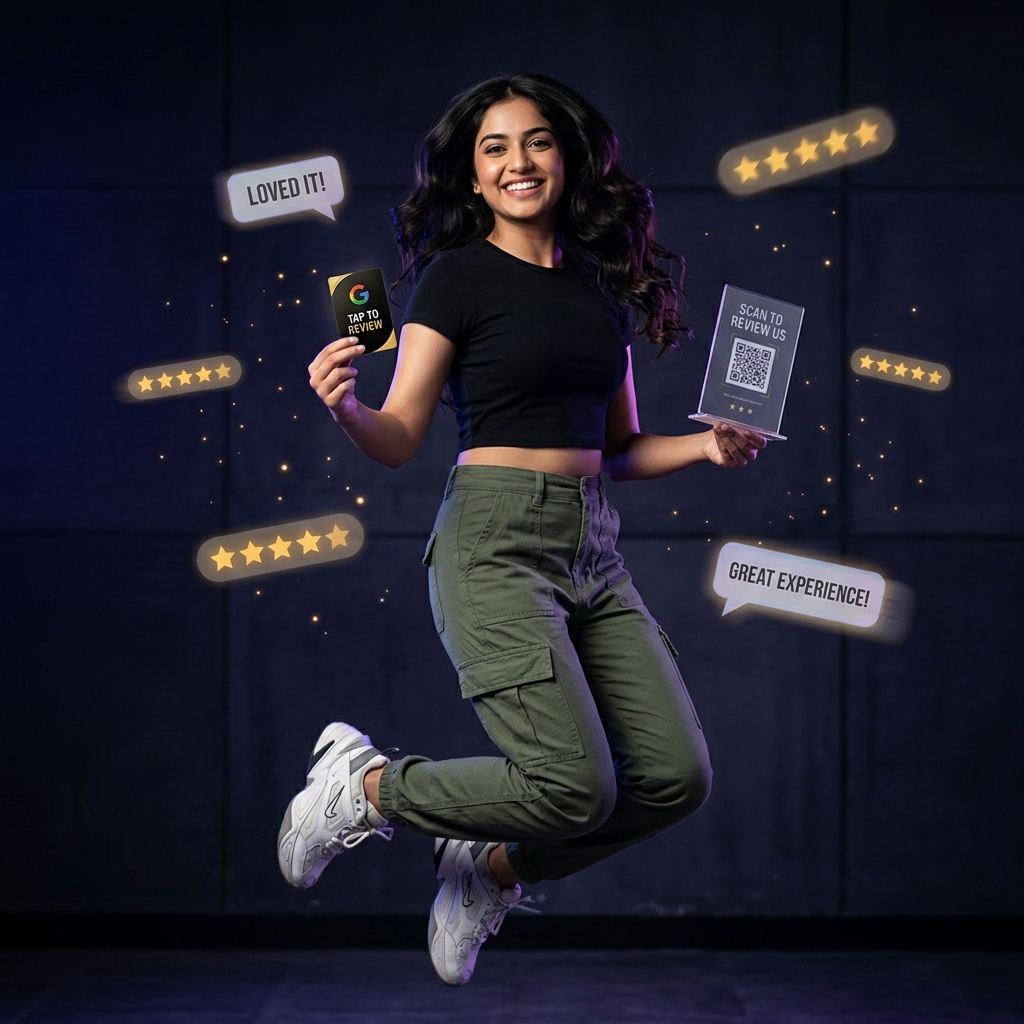
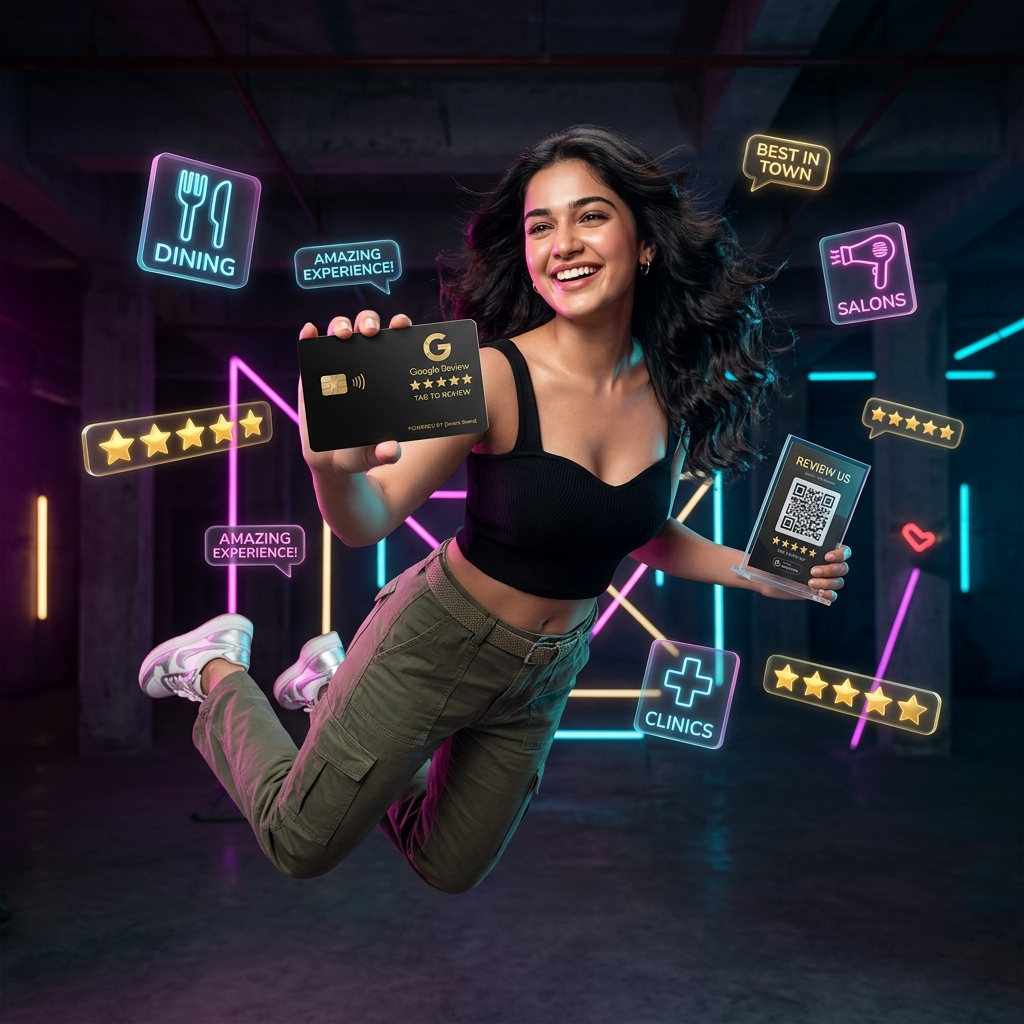
feat: fit responsive heading and enhance hero presenter with business category tags

diff --git a/src/app/page.tsx b/src/app/page.tsx
@@ -505,39 +505,97 @@ export default function HomePage() {
       <section className="pt-12 sm:pt-16 pb-20 px-4 sm:px-6 relative overflow-hidden">
         <div className="max-w-7xl mx-auto">
           {/* Top Floating Badge Bar */}
-          <div className="flex flex-wrap items-center justify-center lg:justify-start gap-2 mb-8 animate-fadeIn">
-            <div className="inline-flex items-center gap-1.5 px-3.5 py-1 rounded-full bg-indigo-500/15 border border-indigo-500/30 text-indigo-300 text-xs font-bold backdrop-blur-md shadow-inner">
+          <div className="flex flex-wrap items-center justify-center lg:justify-start gap-2 mb-6 sm:mb-8 animate-fadeIn">
+            <div className="inline-flex items-center gap-1.5 px-3 py-1 rounded-full bg-indigo-500/15 border border-indigo-500/30 text-indigo-300 text-xs font-bold backdrop-blur-md shadow-inner">
               <span className="w-2 h-2 rounded-full bg-emerald-400 animate-pulse" />
-              <span>PAN-INDIA DIRECT META LAUNCH</span>
+              <span>PAN-INDIA LAUNCH</span>
             </div>
-            <div className="inline-flex items-center gap-1.5 px-3.5 py-1 rounded-full bg-emerald-500/15 border border-emerald-500/30 text-emerald-300 text-xs font-bold backdrop-blur-md">
+            <div className="inline-flex items-center gap-1.5 px-3 py-1 rounded-full bg-emerald-500/15 border border-emerald-500/30 text-emerald-300 text-xs font-bold backdrop-blur-md">
               <Globe className="w-3 h-3 text-emerald-400" />
-              <span>6 Indian Languages: Hindi, Telugu, Tamil, Kannada, Malayalam, English</span>
+              <span>6 Indian Languages &bull; Hindi, Telugu, Tamil +3</span>
             </div>
-            <div className="inline-flex items-center gap-1.5 px-3.5 py-1 rounded-full bg-amber-500/15 border border-amber-500/30 text-amber-300 text-xs font-bold backdrop-blur-md">
+            <div className="inline-flex items-center gap-1.5 px-3 py-1 rounded-full bg-amber-500/15 border border-amber-500/30 text-amber-300 text-xs font-bold backdrop-blur-md">
               <Zap className="w-3 h-3 text-amber-400" />
-              <span>₹2,999 Lifetime Pass &bull; 0 Subscriptions</span>
+              <span>₹2,999 Lifetime Pass</span>
             </div>
           </div>
 
           {/* Hero Grid: Value Prop (Left) + Floating Hero Presenter (Right) */}
-          <div className="grid grid-cols-1 lg:grid-cols-12 gap-10 lg:gap-8 items-center">
-            {/* Left Column: Headline, Description & CTAs */}
-            <div className="lg:col-span-7 text-center lg:text-left space-y-6">
-              <h1 className="text-4xl sm:text-5xl md:text-6xl font-black tracking-tight text-white leading-[1.08]">
-                Collect 100+ Genuine 5-Star
-                <br />
-                <span className="bg-gradient-to-r from-blue-400 via-indigo-300 to-purple-400 bg-clip-text text-transparent drop-shadow-sm">
+          <div className="grid grid-cols-1 lg:grid-cols-12 gap-8 lg:gap-8 items-center">
+            {/* Left Column on Desktop / Main Flow on Mobile */}
+            <div className="lg:col-span-7 text-center lg:text-left space-y-5">
+              {/* Responsive Fitted Heading: Never splits 5-Star across lines */}
+              <h1 className="text-3xl sm:text-4xl md:text-5xl xl:text-6xl font-black tracking-tight text-white leading-[1.12] sm:leading-[1.1] hyphens-none">
+                <span className="block">
+                  Collect 100+ Genuine{" "}
+                  <span className="inline-block whitespace-nowrap text-amber-300">5-Star</span>
+                </span>
+                <span className="bg-gradient-to-r from-blue-400 via-indigo-300 to-purple-400 bg-clip-text text-transparent drop-shadow-sm block mt-1 sm:mt-1.5">
                   Google Reviews Every Month
                 </span>
               </h1>
 
-              <p className="text-base sm:text-lg md:text-xl text-slate-300 max-w-2xl mx-auto lg:mx-0 font-normal leading-relaxed">
+              <p className="text-sm sm:text-base md:text-lg text-slate-300 max-w-2xl mx-auto lg:mx-0 font-normal leading-relaxed">
                 Customers tap your smart NFC card or scan your crystal counter standee. Gemini AI writes authentic 5-star reviews in their native language in 10 seconds. Bad reviews are shielded privately to your WhatsApp.
               </p>
 
+              {/* ─── MOBILE-ONLY HERO PRESENTER SHOWCASE (Visible on mobile, hidden on lg) ─── */}
+              <div className="lg:hidden py-2 flex flex-col items-center">
+                {/* Hero Card for Mobile */}
+                <div className="relative w-full max-w-sm mx-auto">
+                  <div className="absolute -inset-2 bg-gradient-to-tr from-indigo-600/30 via-purple-600/25 to-pink-500/20 rounded-3xl blur-xl -z-10" />
+                  <div className="relative rounded-3xl overflow-hidden border border-white/20 bg-slate-900/90 shadow-2xl">
+                    <Image
+                      src="/images/hero-presenter.jpg"
+                      alt="ReviewSmart AI - 5-Star Google Reviews NFC Tap Card and QR Acrylic Standee"
+                      width={600}
+                      height={600}
+                      priority
+                      className="w-full h-auto object-cover"
+                    />
+
+                    {/* Top Badges */}
+                    <div className="absolute top-2.5 left-2.5 bg-slate-950/90 backdrop-blur-md border border-amber-400/60 px-2.5 py-1 rounded-full flex items-center gap-1 shadow-lg">
+                      <Sparkles className="w-3 h-3 text-amber-400" />
+                      <span className="text-[10px] font-black text-amber-300 uppercase">NFC Tap & QR Standee</span>
+                    </div>
+
+                    <div className="absolute top-2.5 right-2.5 bg-slate-950/90 backdrop-blur-md border border-emerald-400/60 px-2.5 py-1 rounded-full flex items-center gap-1 shadow-lg">
+                      <span className="text-amber-400 text-[10px]">★★★★★</span>
+                      <span className="text-[10px] font-black text-emerald-400">5.0 Official</span>
+                    </div>
+
+                    {/* Bottom Info Pill */}
+                    <div className="absolute inset-x-2.5 bottom-2.5 p-2.5 rounded-2xl bg-slate-950/92 backdrop-blur-xl border border-white/20 flex items-center justify-between gap-2 shadow-2xl">
+                      <div className="flex items-center gap-2">
+                        <div className="w-7 h-7 rounded-lg bg-gradient-to-tr from-indigo-500 to-purple-600 flex items-center justify-center shrink-0">
+                          <Zap className="w-3.5 h-3.5 text-amber-300" />
+                        </div>
+                        <div className="text-left">
+                          <p className="text-[11px] font-black text-white leading-tight">AI Instant Reviews</p>
+                          <p className="text-[9px] text-slate-300">Telugu &bull; Hindi &bull; Tamil &bull; English</p>
+                        </div>
+                      </div>
+                      <div className="text-right">
+                        <span className="text-xs font-black text-emerald-400">₹2,999</span>
+                        <p className="text-[8px] text-slate-400">Lifetime</p>
+                      </div>
+                    </div>
+                  </div>
+                </div>
+
+                {/* Mobile Business Tag Chips */}
+                <div className="mt-3 flex flex-wrap items-center justify-center gap-1.5 text-[10px] font-bold text-slate-300">
+                  <span className="px-2 py-0.5 rounded-md bg-white/5 border border-white/10">🍽 Dining</span>
+                  <span className="px-2 py-0.5 rounded-md bg-white/5 border border-white/10">👗 Boutiques</span>
+                  <span className="px-2 py-0.5 rounded-md bg-white/5 border border-white/10">💇 Salons</span>
+                  <span className="px-2 py-0.5 rounded-md bg-white/5 border border-white/10">🏥 Clinics</span>
+                  <span className="px-2 py-0.5 rounded-md bg-white/5 border border-white/10">💎 Jewellery</span>
+                </div>
+              </div>
+
               {/* Main CTAs */}
-              <div className="flex flex-col sm:flex-row items-center justify-center lg:justify-start gap-3.5 pt-2">
+              <div className="flex flex-col sm:flex-row items-center justify-center lg:justify-start gap-3.5 pt-1">
                 <a
                   href="#pricing"
                   className="w-full sm:w-auto px-8 py-4 rounded-2xl bg-gradient-to-r from-indigo-500 via-purple-500 to-indigo-600 hover:from-indigo-400 hover:to-purple-400 text-white font-extrabold text-sm flex items-center justify-center gap-2.5 shadow-2xl shadow-indigo-500/30 hover:scale-[1.02] active:scale-[0.98] transition-all"
@@ -559,7 +617,7 @@ export default function HomePage() {
               </div>
 
               {/* Quick Trust Badges Strip */}
-              <div className="pt-2 flex flex-wrap items-center justify-center lg:justify-start gap-4 sm:gap-6 text-xs text-slate-400">
+              <div className="pt-2 flex flex-wrap items-center justify-center lg:justify-start gap-3.5 sm:gap-6 text-xs text-slate-400">
                 <span className="flex items-center gap-1.5 text-emerald-400 font-bold">
                   <CheckCircle2 className="w-4 h-4 text-emerald-400" /> 100% Free For Lifetime
                 </span>
@@ -575,11 +633,11 @@ export default function HomePage() {
               </div>
             </div>
 
-            {/* Right Column: Floating Presenter Hero Card */}
-            <div className="lg:col-span-5 flex justify-center">
+            {/* Right Column: Desktop Hero Presenter (Hidden on mobile, flex on lg) */}
+            <div className="hidden lg:flex lg:col-span-5 flex-col items-center justify-center">
               <div className="relative w-full max-w-md lg:max-w-none">
                 {/* Radiant Ambient Glow Behind Image */}
-                <div className="absolute -inset-3 bg-gradient-to-tr from-indigo-600/30 via-purple-600/25 to-amber-500/20 rounded-3xl blur-2xl -z-10" />
+                <div className="absolute -inset-3 bg-gradient-to-tr from-indigo-600/30 via-purple-600/25 to-pink-500/20 rounded-3xl blur-2xl -z-10" />
 
                 {/* Main Image Frame with Floating Badges */}
                 <div className="relative rounded-3xl overflow-hidden border border-white/20 bg-slate-900/90 shadow-[0_25px_60px_-15px_rgba(79,70,229,0.4)] backdrop-blur-2xl group">
@@ -607,14 +665,14 @@ export default function HomePage() {
                   </div>
 
                   {/* Floating Info Banner Bottom */}
-                  <div className="absolute inset-x-3 bottom-3 p-3 rounded-2xl bg-slate-950/90 backdrop-blur-xl border border-white/15 flex items-center justify-between gap-2 shadow-2xl">
+                  <div className="absolute inset-x-3 bottom-3 p-3 rounded-2xl bg-slate-950/92 backdrop-blur-xl border border-white/15 flex items-center justify-between gap-2 shadow-2xl">
                     <div className="flex items-center gap-2.5">
-                      <div className="w-8 h-8 rounded-xl bg-gradient-to-tr from-indigo-500 to-purple-600 flex items-center justify-center shrink-0 shadow-md">
-                        <Zap className="w-4 h-4 text-white" />
+                      <div className="w-8 h-8 rounded-xl bg-gradient-to-tr from-indigo-500 via-purple-500 to-indigo-600 flex items-center justify-center shrink-0 shadow-md">
+                        <Zap className="w-4 h-4 text-amber-300" />
                       </div>
                       <div>
                         <p className="text-xs font-black text-white">AI Instant Reviews</p>
-                        <p className="text-[10px] text-slate-300">Hindi &bull; Telugu &bull; Tamil &bull; English</p>
+                        <p className="text-[10px] text-slate-300">Telugu &bull; Hindi &bull; Tamil &bull; English</p>
                       </div>
                     </div>
                     <div className="text-right">
@@ -622,6 +680,15 @@ export default function HomePage() {
                       <p className="text-[9px] text-slate-400">Lifetime Pass</p>
                     </div>
                   </div>
+                </div>
+
+                {/* Desktop Business Category Tags */}
+                <div className="mt-3.5 flex flex-wrap items-center justify-center gap-2 text-xs font-bold text-slate-300">
+                  <span className="px-3 py-1 rounded-xl bg-white/5 border border-white/10 hover:border-amber-400/40 transition">🍽 Cafes & Dining</span>
+                  <span className="px-3 py-1 rounded-xl bg-white/5 border border-white/10 hover:border-indigo-400/40 transition">👗 Boutiques & Retail</span>
+                  <span className="px-3 py-1 rounded-xl bg-white/5 border border-white/10 hover:border-pink-400/40 transition">💇 Salons & Spas</span>
+                  <span className="px-3 py-1 rounded-xl bg-white/5 border border-white/10 hover:border-emerald-400/40 transition">🏥 Clinics & Doctors</span>
+                  <span className="px-3 py-1 rounded-xl bg-white/5 border border-white/10 hover:border-amber-400/40 transition">💎 Jewellery</span>
                 </div>
               </div>
             </div>
